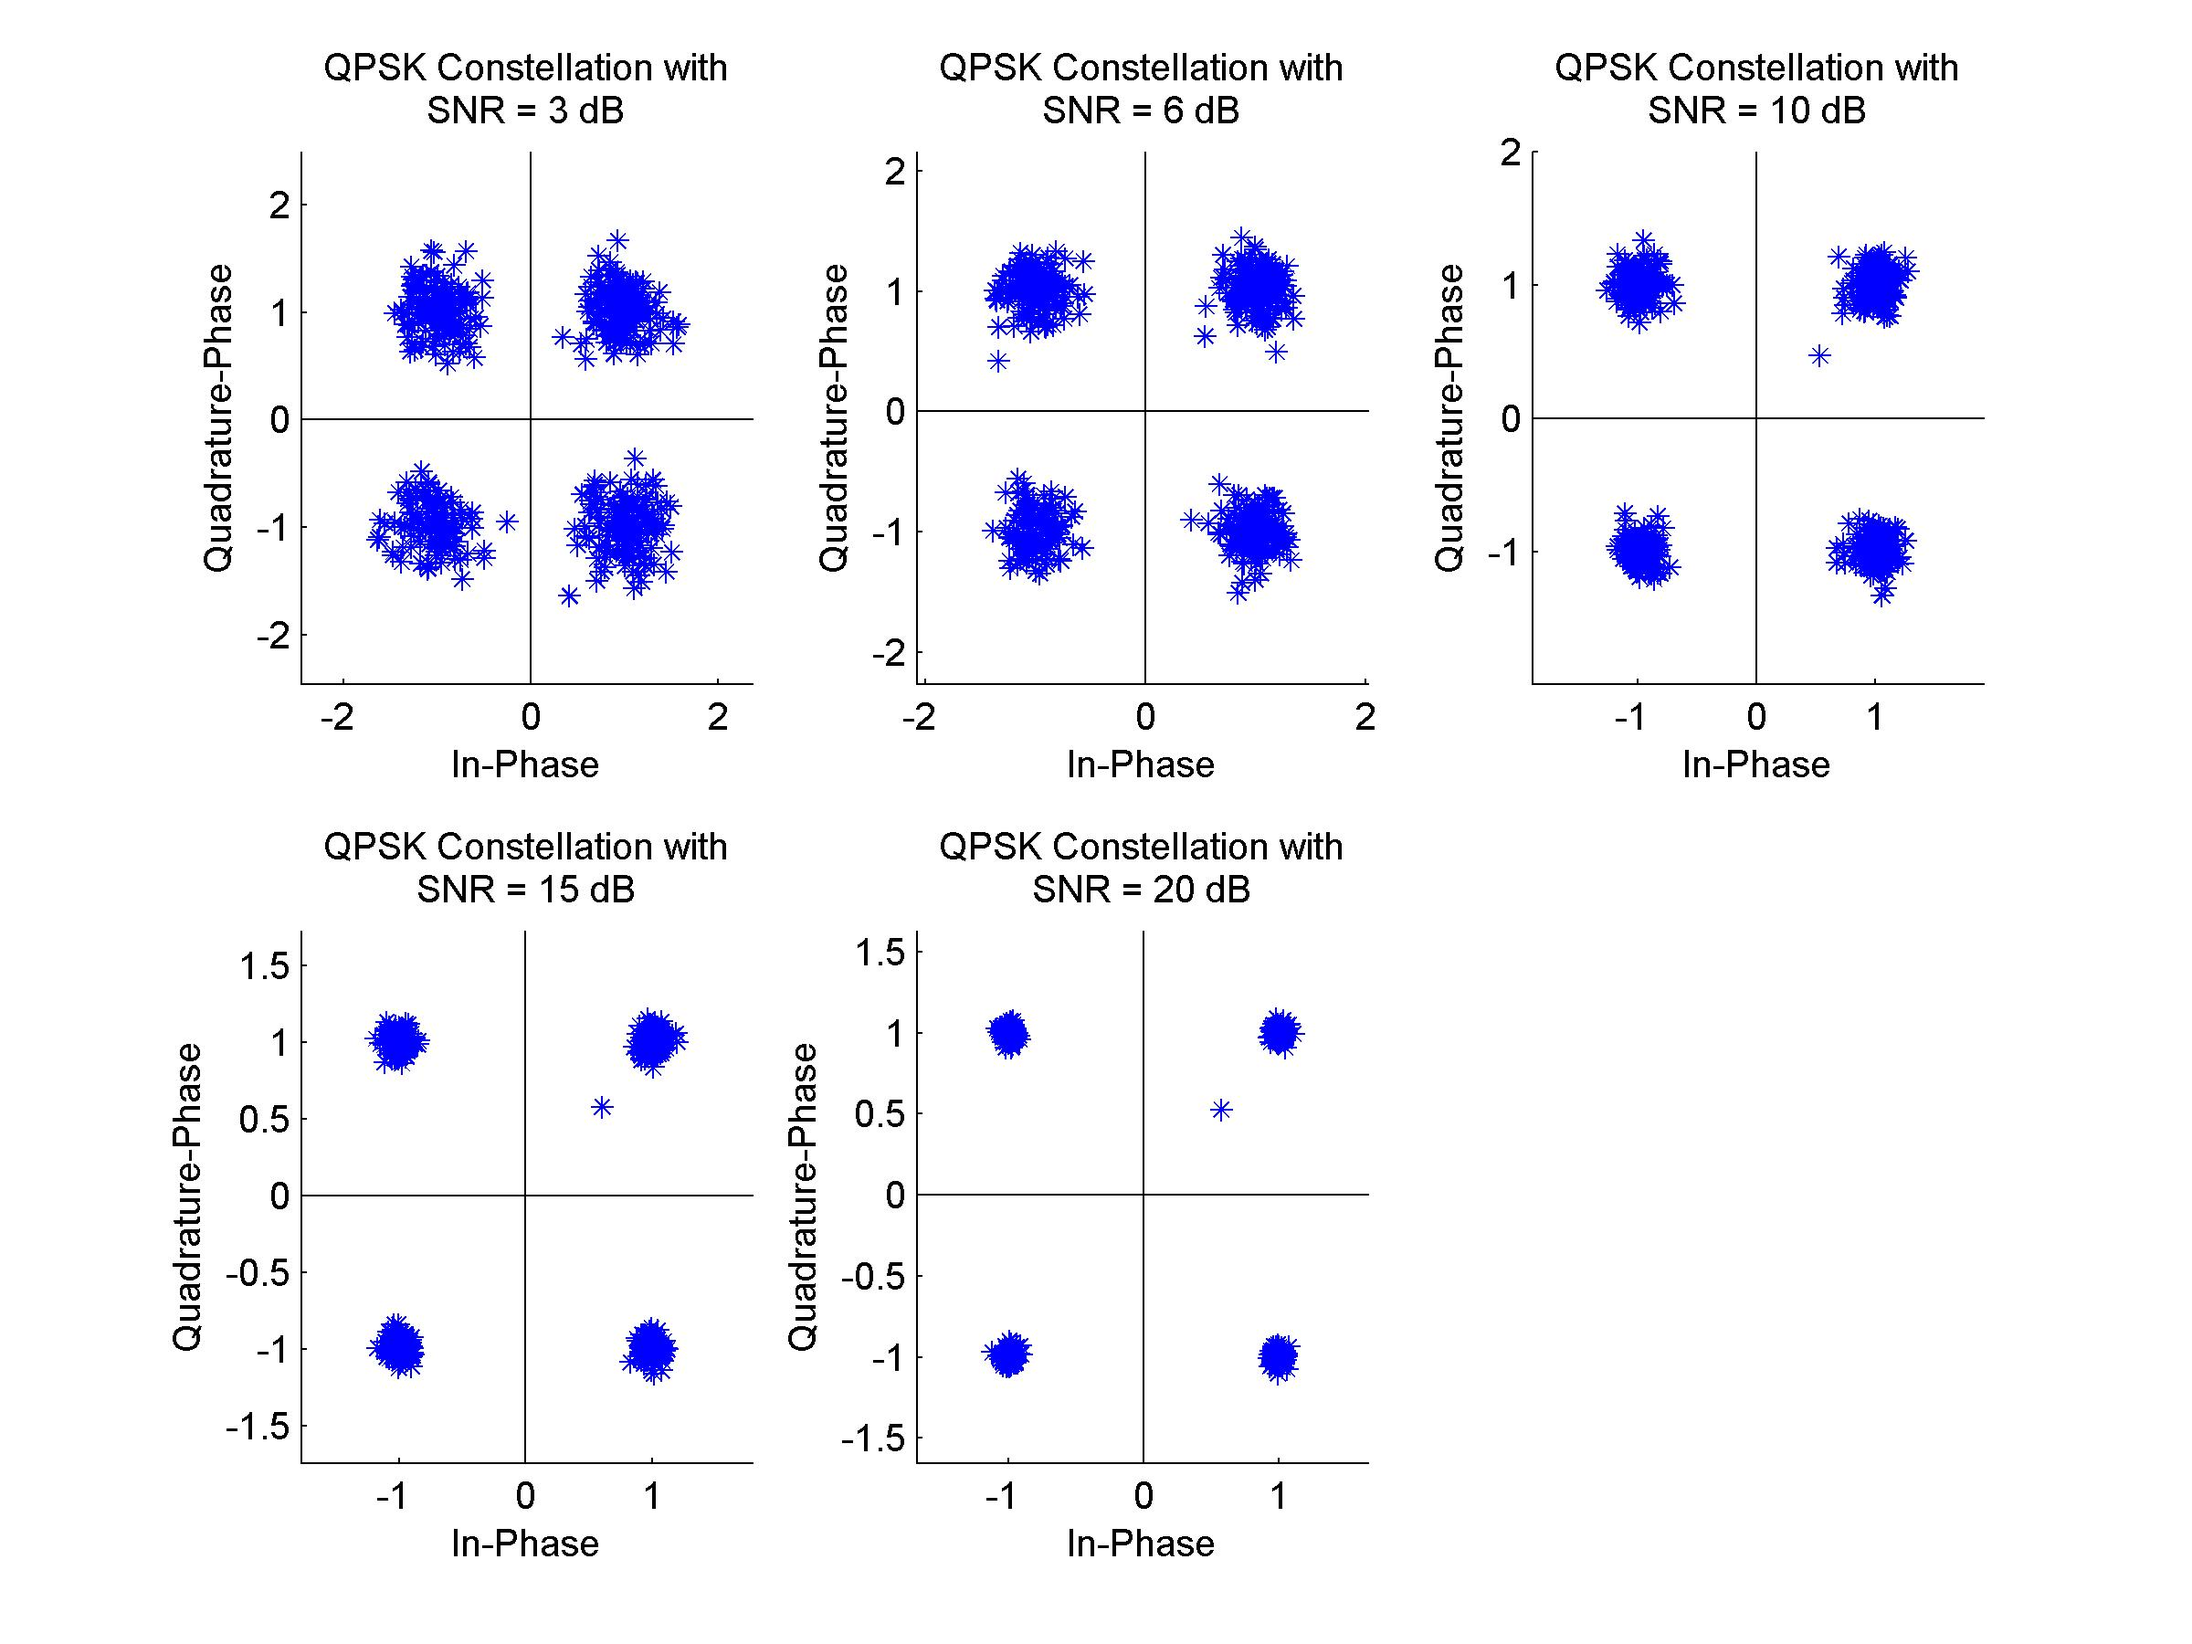
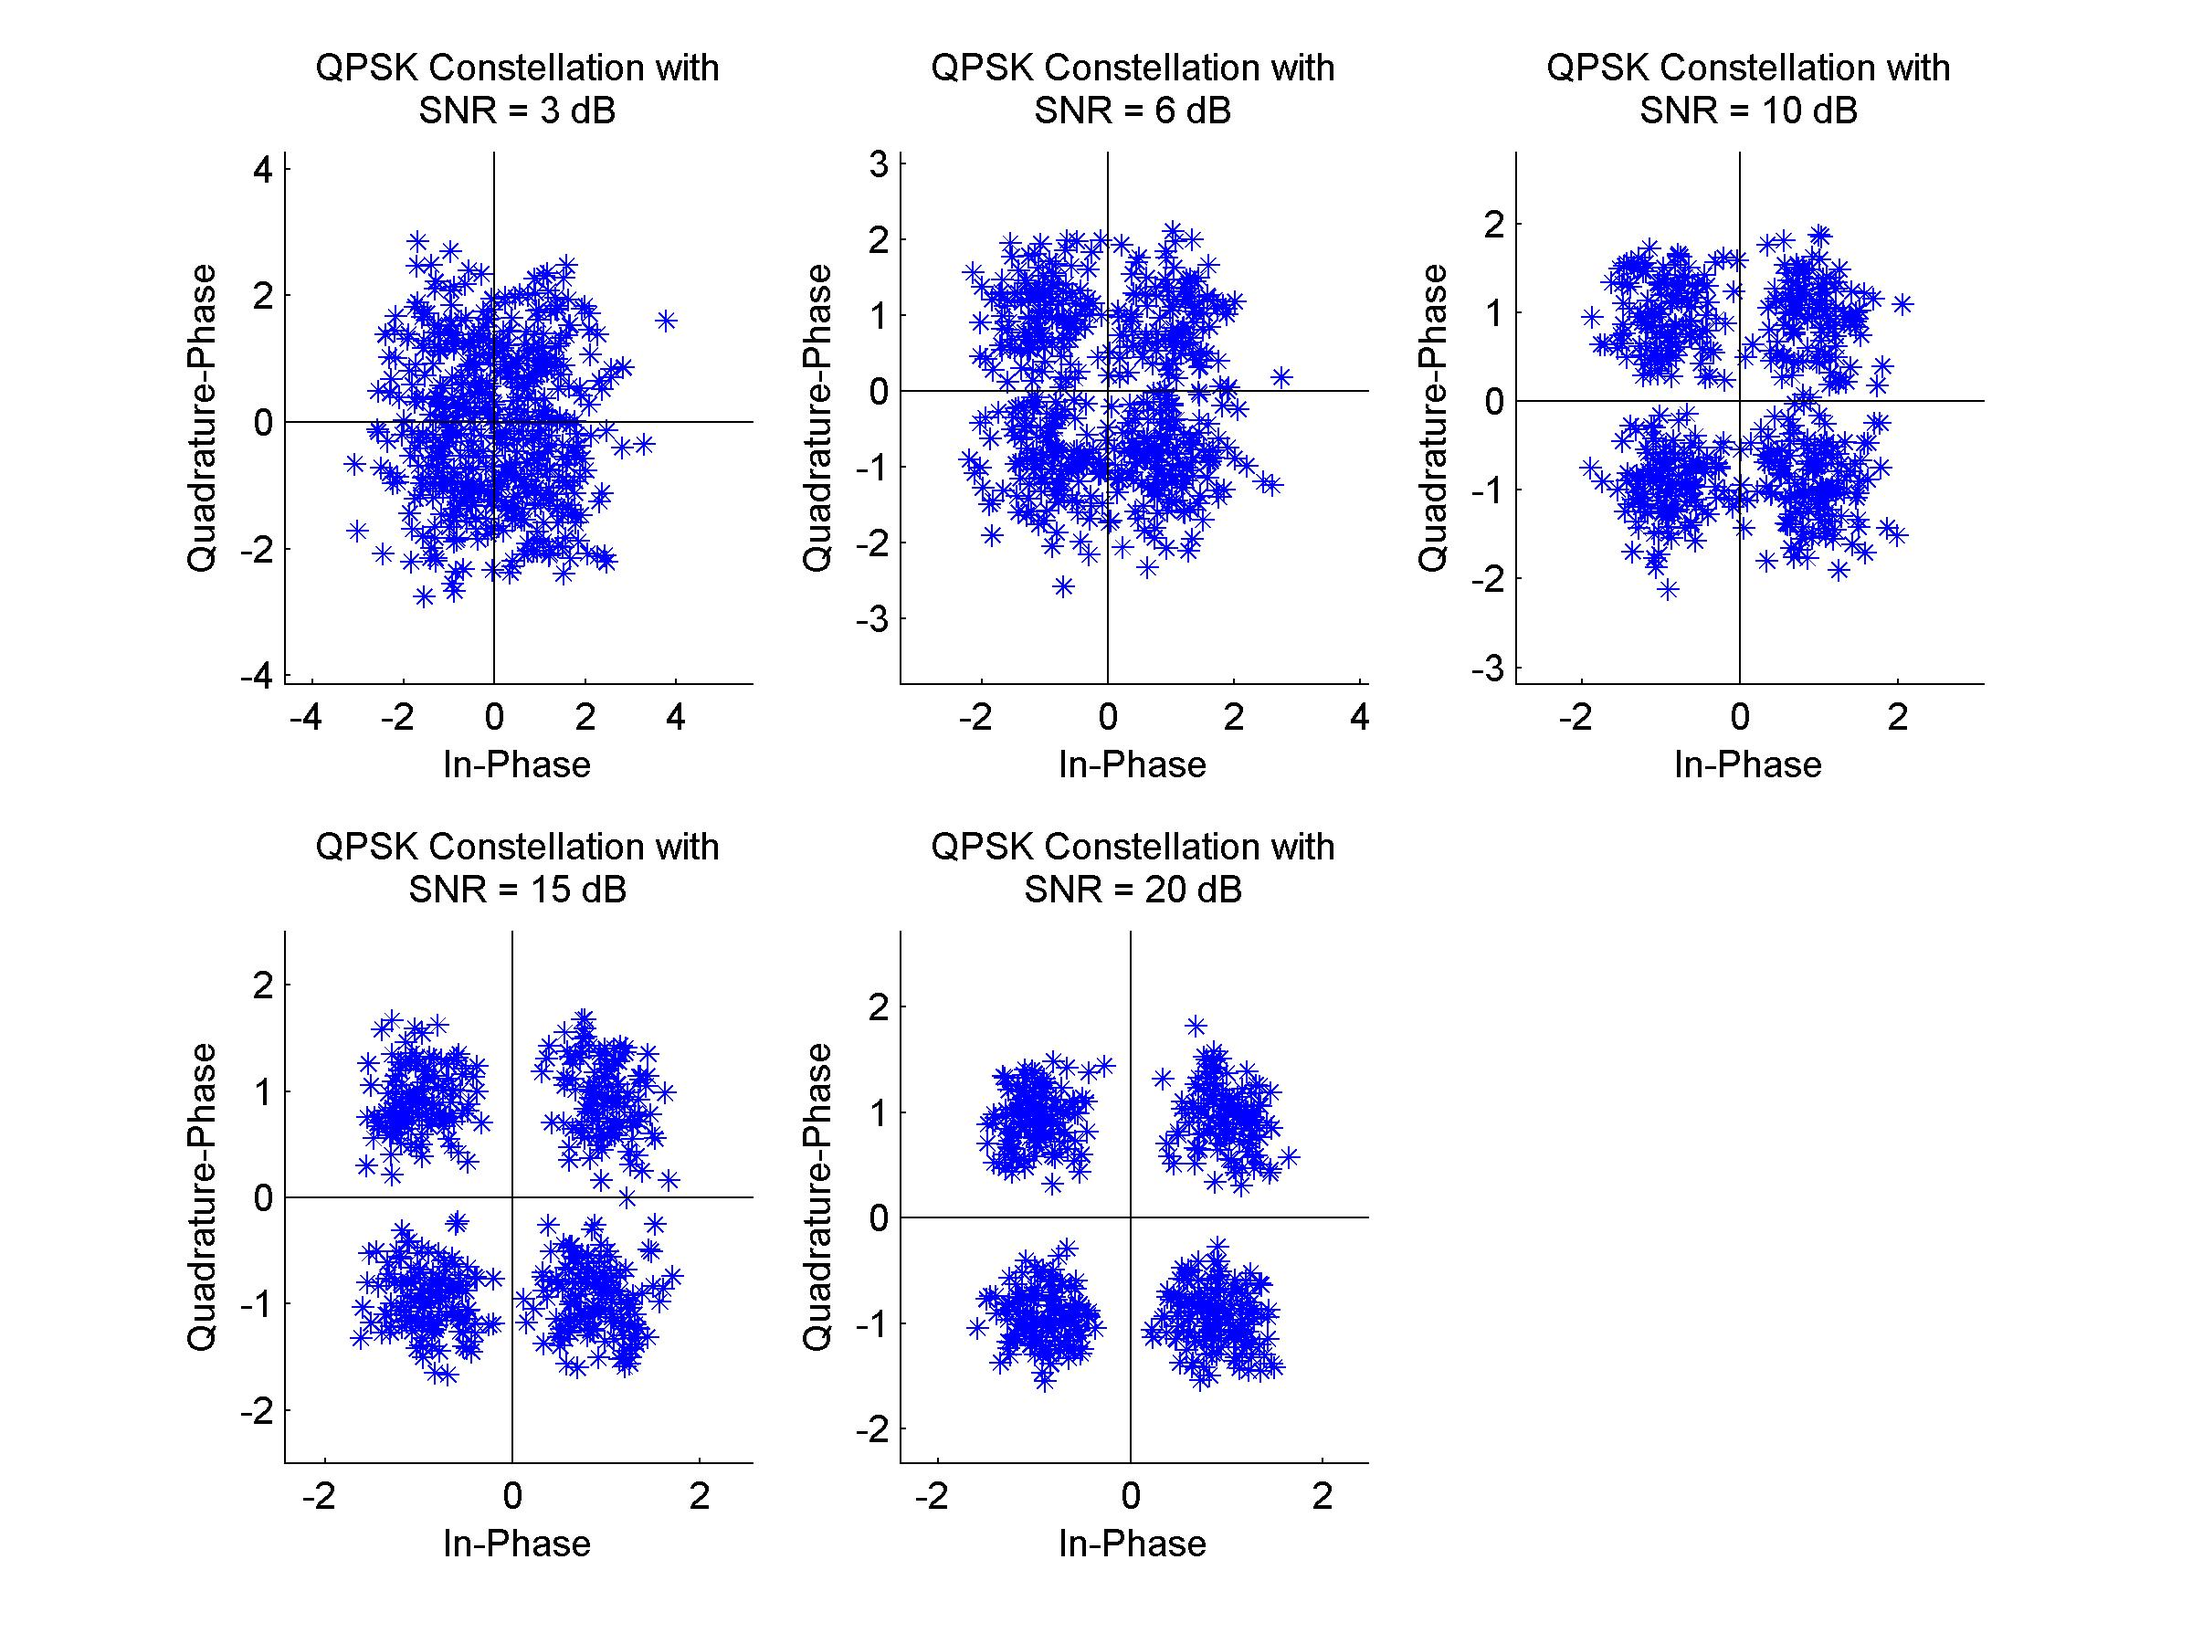
-

diff --git a/step4/step4_sim_qpsk.m b/step4/step4_sim_qpsk.m
@@ -4,7 +4,7 @@ clear all;
 clc;
 %Start by setting the initial variables
 overSampleSize = 4;
-overSampleSizeAnalog = 320; %80 times symbol period
+overSampleSizeAnalog = 80; %80 times symbol period
 rollOffFactor = 0.25;
 Ts = 1; %Symbol period
 S=2; %average signal power for QPSK
@@ -22,12 +22,10 @@ bits = random_bit_generator(N);  %random bit generation
 impulse_train_quad = impulse_train(overSampleSize,N/k,quadrature);
 impulse_train_inphase = impulse_train(overSampleSize,N/k,inphase);
 transmit = conv(impulse_train_inphase + j*impulse_train_quad,srrc,'same');
-
 %digital to analog conversion
 transmit_analog = ZeroHoldInterpolation(transmit,overSampleSizeAnalog);
-
 %anti aliasing filter
-filtered_transmit_analog = ButterworthFilter(4,0.1,transmit_analog); %fc at pi/4
+filtered_transmit_analog = ButterworthFilter(4,0.015,transmit_analog); %fc at pi/4
 
 %loop this section for the generation of BER vs SNR graphs and
 %constellation plots
@@ -41,16 +39,14 @@ num = 1;
 for i=1:length(SNR)
    %pass the signals to be transmitted through awgn channel
     received_analog = awgn_complex_channel(filtered_transmit_analog,SNR(i),S);
-    
     %noise limiting filter
-    filtered_received_analog = ButterworthFilter(4,0.1,received_analog);
+    filtered_received_analog = ButterworthFilter(4,0.9,received_analog);
     %analog to digital converter -> sample 4 times each symbol period
-    received_digital = ZeroHoldDecimation(filtered_received_analog,320);
+    received_digital = ZeroHoldDecimation(filtered_received_analog,overSampleSizeAnalog);
     
     %pass the received signal through the matched filter for optimal
     %detection
     matched_output = conv(received_digital,srrc,'same');
-
     %pass the matched filter output through the sampler to obtain symbols
     %at each symbol period
     sampled = sampler(matched_output,overSampleSize,Ts);
